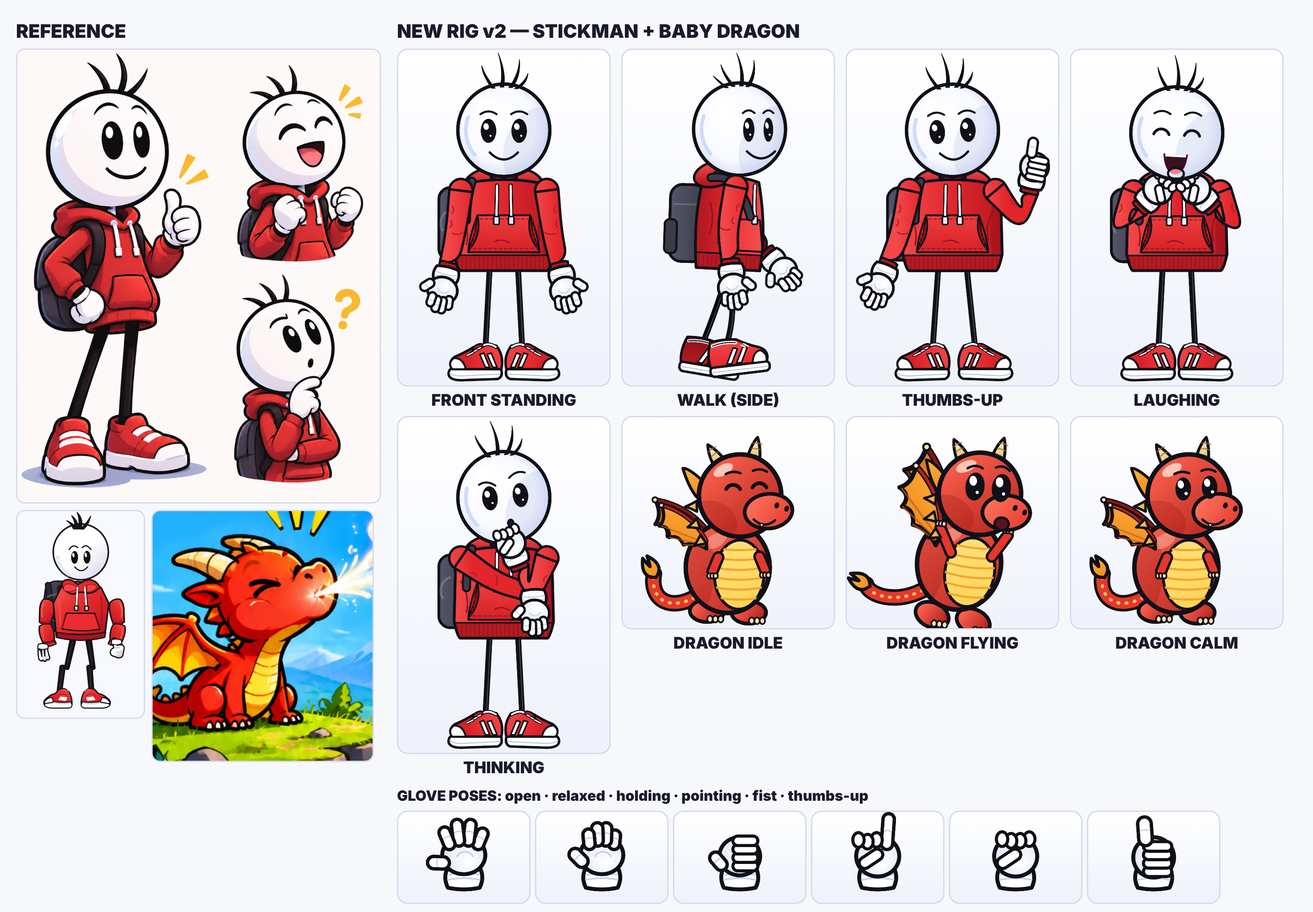
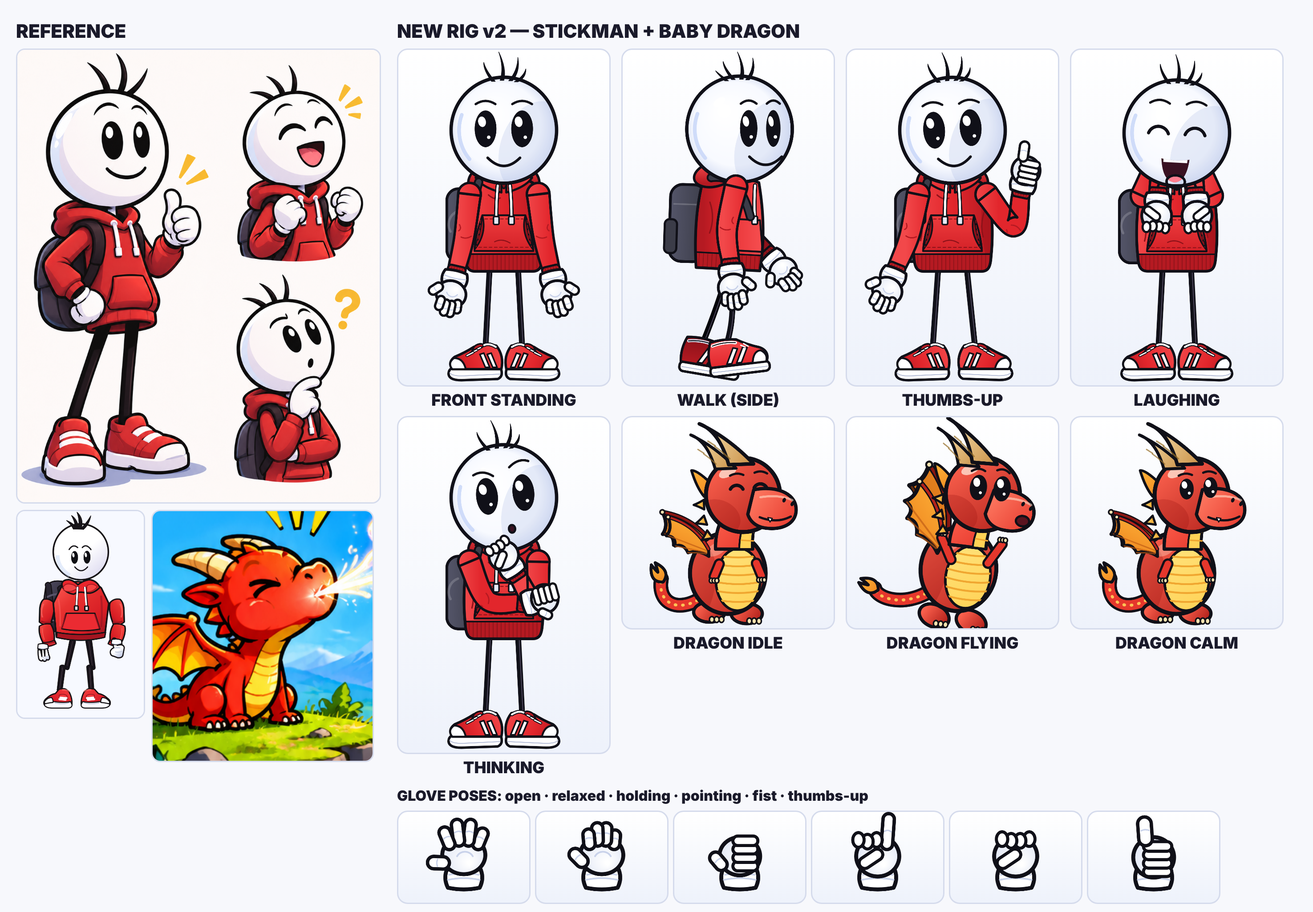
Rig v2 polish: bigger head/eyes, soft hoodie + hood fold, smooth sleeves, thinking pose, dragon muzzle/horns/neck
Claude-Session: https://claude.ai/code/session_01UChzBpiCnNwS6LFmEXGCkY

diff --git a/pack/Stick3D-Pack/engine/src/style/stickman.ts b/pack/Stick3D-Pack/engine/src/style/stickman.ts
@@ -13,7 +13,7 @@ export type Rig = {
   t: number; view?: View; flip?: boolean; face?: Face; lookX?: number; lookY?: number; blink?: number;
   x?: number; y?: number; /* body offset in units (y up = negative) */ air?: number; /* extra height above the ground */
   lean?: number; /* deg, + forward/right */ headTilt?: number; squash?: number; /* + stretch, - squash */ breath?: number;
-  armL?: Arm; armR?: Arm; ikL?: [number, number]; ikR?: [number, number]; ikKL?: number; ikKR?: number; /* hand targets (units, x from body centre, y from baseline up) */
+  armL?: Arm; armR?: Arm; ikL?: [number, number]; ikR?: [number, number]; ikKL?: number; ikKR?: number; ikBendL?: number; ikBendR?: number; /* override elbow side (+1/-1) */ /* hand targets (units, x from body centre, y from baseline up) */
   handL?: HandPose; handR?: HandPose; handRotL?: number; handRotR?: number;
   legL?: Leg; legR?: Leg; grounded?: boolean;
   hug?: (c: CanvasRenderingContext2D, x: number, y: number) => void; // drawn over the torso, under the hands (units)
@@ -146,14 +146,14 @@ function shoeFront(c: CanvasRenderingContext2D) {
 
 
 /* ---------- head + face ---------- */
-const HR = 150;
+const HR = 172; const FK = HR / 150; // face scale
 function hair(c: CanvasRenderingContext2D, hx: number, hy: number, t: number, side: boolean) {
   // 3-4 thin curved strands from the crown
-  const sway = Math.sin(t * 0.18) * 0.04;
+  const sway = Math.sin(t * 0.18) * 0.04; const HL = 0.82;
   const strands: [number, number, number, number][] = side ? [[-20, 78, -0.55, -1], [6, 104, -0.15, 1], [26, 84, 0.25, 1], [-42, 56, -0.9, -1]] : [[-34, 80, -0.5, -1], [-6, 108, -0.12, 1], [22, 92, 0.32, 1], [40, 60, 0.7, 1]];
   for (const [dx, len, ang, bend] of strands) {
     const bx = hx + dx, by = hy - Math.sqrt(Math.max(0, HR * HR - dx * dx)) + 6, a = ang + sway;
-    const tx = bx + Math.sin(a) * len, ty = by - Math.cos(a) * len, mx = (bx + tx) / 2 + bend * 16 * Math.cos(a), my = (by + ty) / 2 + bend * 6;
+    const tx = bx + Math.sin(a) * len * HL, ty = by - Math.cos(a) * len * HL, mx = (bx + tx) / 2 + bend * 16 * Math.cos(a), my = (by + ty) / 2 + bend * 6;
     c.beginPath(); c.moveTo(bx - 6, by + 4); c.quadraticCurveTo(mx - 4, my, tx, ty); c.quadraticCurveTo(mx + 5, my + 3, bx + 6, by + 4); c.closePath(); c.fillStyle = INK; c.fill(); stroke(c, 2);
   }
 }
@@ -169,27 +169,28 @@ function headBall(c: CanvasRenderingContext2D, hx: number, hy: number, faceDir: 
   c.beginPath(); c.arc(hx, hy, HR, 0, Math.PI * 2); stroke(c, 11);
 }
 function face(c: CanvasRenderingContext2D, hx: number, hy: number, r: Rig, side: boolean) {
+  c.save(); c.translate(hx, hy); c.scale(FK, FK); c.translate(-hx, -hy);
   const f = r.face ?? "smile", lx = (r.lookX ?? 0) * 8, ly = (r.lookY ?? 0) * 8, bl = (r.blink ?? 0) > 0.5;
-  const eyes: [number, number, number][] = side ? [[hx + 30, hy + 2, 0.8], [hx + 94, hy + 2, 0.68]] : [[hx - 50, hy + 2, 1.1], [hx + 50, hy + 2, 1.1]];
+  const eyes: [number, number, number][] = side ? [[hx + 26, hy - 2, 0.8], [hx + 96, hy - 2, 0.66]] : [[hx - 52, hy - 4, 1]].concat([[hx + 52, hy - 4, 1]]) as [number, number, number][];
   const big = f === "surprised" || f === "scared" ? 1.18 : 1;
   // eyes
   for (const [ex, ey, sx] of eyes) {
-    if (f === "laugh" || f === "grin") { c.beginPath(); c.arc(ex, ey + 14, 24 * sx, rad(200), rad(340)); stroke(c, 9); continue; }
-    if (bl) { c.beginPath(); c.arc(ex, ey - 6, 22 * sx, rad(20), rad(160)); stroke(c, 8); continue; }
-    c.beginPath(); c.ellipse(ex + lx, ey + ly, 23 * sx * big, 39 * big, 0, 0, Math.PI * 2); c.fillStyle = INK; c.fill();
-    c.beginPath(); c.ellipse(ex + lx - 7 * sx, ey + ly - 14 * big, 8 * sx, 11, -0.2, 0, Math.PI * 2); c.fillStyle = "#fff"; c.fill();
-    c.beginPath(); c.arc(ex + lx + 6 * sx, ey + ly + 16 * big, 3.5, 0, Math.PI * 2); c.fill();
+    if (f === "laugh" || f === "grin") { c.beginPath(); c.arc(ex, ey + 18, 30 * sx, rad(200), rad(340)); stroke(c, 9); continue; }
+    if (bl) { c.beginPath(); c.arc(ex, ey - 6, 28 * sx, rad(20), rad(160)); stroke(c, 8); continue; }
+    c.beginPath(); c.ellipse(ex + lx, ey + ly, 31 * sx * big, 52 * big, 0, 0, Math.PI * 2); c.fillStyle = INK; c.fill();
+    c.beginPath(); c.ellipse(ex + lx - 10 * sx, ey + ly - 20 * big, 11 * sx, 15, -0.2, 0, Math.PI * 2); c.fillStyle = "#fff"; c.fill();
+    c.beginPath(); c.arc(ex + lx + 9 * sx, ey + ly + 24 * big, 5, 0, Math.PI * 2); c.fill();
   }
   // brows (thin arcs)
   const [e0, e1] = eyes;
-  const brow = (ex: number, ey: number, sx: number, lift: number, tilt: number) => { c.beginPath(); c.moveTo(ex - 24 * sx, ey - 52 - lift + tilt); c.quadraticCurveTo(ex, ey - 70 - lift, ex + 24 * sx, ey - 52 - lift - tilt); stroke(c, 6.5); };
+  const brow = (ex: number, ey: number, sx: number, lift: number, tilt: number) => { c.beginPath(); c.moveTo(ex - 28 * sx, ey - 68 - lift + tilt); c.quadraticCurveTo(ex, ey - 86 - lift, ex + 28 * sx, ey - 68 - lift - tilt); stroke(c, 6.5); };
   if (f === "think") { brow(e0[0], e0[1], e0[2], -4, -4); brow(e1[0], e1[1], e1[2], 18, 6); }
   else if (f === "surprised" || f === "scared") { brow(e0[0], e0[1], e0[2], 20, 0); brow(e1[0], e1[1], e1[2], 20, 0); }
   else if (f === "worried") { brow(e0[0], e0[1], e0[2], 6, -10); brow(e1[0], e1[1], e1[2], 6, 10); }
   else if (f === "determined") { brow(e0[0], e0[1], e0[2], -6, 12); brow(e1[0], e1[1], e1[2], -6, -12); }
   else { brow(e0[0], e0[1], e0[2], f === "laugh" ? 10 : 2, 0); brow(e1[0], e1[1], e1[2], f === "laugh" ? 10 : 2, 0); }
   // mouth
-  const mx = side ? hx + 70 : hx, my = hy + 78;
+  const mx = side ? hx + 74 : hx, my = hy + 84;
   c.beginPath();
   if (f === "laugh" || f === "grin") {
     const h = f === "laugh" ? 54 : 40; c.moveTo(mx - 40, my - 10); c.quadraticCurveTo(mx, my - 2, mx + 40, my - 10); c.quadraticCurveTo(mx + 34, my + h, mx, my + h + 2); c.quadraticCurveTo(mx - 34, my + h, mx - 40, my - 10); c.closePath(); c.fillStyle = "#3a1222"; c.fill();
@@ -200,6 +201,7 @@ function face(c: CanvasRenderingContext2D, hx: number, hy: number, r: Rig, side:
   else if (f === "determined") { c.moveTo(mx - 28, my + 8); c.quadraticCurveTo(mx, my + 2, mx + 28, my + 8); stroke(c, 7); }
   else if (f === "neutral") { c.moveTo(mx - 22, my + 6); c.lineTo(mx + 22, my + 6); stroke(c, 7); }
   else { c.moveTo(mx - 46, my - 6); c.quadraticCurveTo(mx, my + 40, mx + 46, my - 6); stroke(c, 7.5); }
+  c.restore();
 }
 
 /* ---------- main ---------- */
@@ -231,12 +233,12 @@ export function drawStickman(c: CanvasRenderingContext2D, W: number, H: number, 
   c.translate(0, gy);
   const shBase: P = side ? [8, -258] : [0, -258];
   const sh = torsoPt([0, -258]);
-  const shL = torsoPt(side ? [shBase[0] - 10, shBase[1] + 6] : [-140, -246 + breath * 0.3]), shR = torsoPt(side ? [shBase[0] + 4, shBase[1] + 4] : [140, -246 + breath * 0.3]);
+  const shL = torsoPt(side ? [shBase[0] - 10, shBase[1] + 6] : [-112, -234 + breath * 0.3]), shR = torsoPt(side ? [shBase[0] + 4, shBase[1] + 4] : [112, -234 + breath * 0.3]);
   const armPts = (arm: Arm | undefined, s: P, sx: number, ikT?: [number, number], ikK = 1): [P, P] => {
     const A = arm ?? { a: 8, b: 6 };
     const fa = rad(A.a) + lean * (side ? 1 : 0), fb = rad(A.a + A.b) + lean * (side ? 1 : 0);
     let e: P = add(s, dirDown(fa, side ? 1 : sx).map((v) => v * UPPER) as P), w: P = add(e, dirDown(fb, side ? 1 : sx).map((v) => v * FORE) as P);
-    if (ikT && ikK > 0) { const tgt: P = [ikT[0], 1000 - ikT[1] - gy]; const [ie, iw] = ik(s, tgt, UPPER, FORE, side ? -1 : sx > 0 ? -1 : 1); e = [e[0] + (ie[0] - e[0]) * ikK, e[1] + (ie[1] - e[1]) * ikK]; w = [w[0] + (iw[0] - w[0]) * ikK, w[1] + (iw[1] - w[1]) * ikK]; }
+    if (ikT && ikK > 0) { const tgt: P = [ikT[0], 1000 - ikT[1] - gy]; const bend = (sx > 0 ? r.ikBendR : r.ikBendL) ?? (side ? -1 : sx > 0 ? -1 : 1); const [ie, iw] = ik(s, tgt, UPPER, FORE, bend); e = [e[0] + (ie[0] - e[0]) * ikK, e[1] + (ie[1] - e[1]) * ikK]; w = [w[0] + (iw[0] - w[0]) * ikK, w[1] + (iw[1] - w[1]) * ikK]; }
     return [e, w];
   };
   const [elL, wrL] = armPts(r.armL, shL, -1, r.ikL, r.ikKL ?? 1), [elR, wrR] = armPts(r.armR, shR, 1, r.ikR, r.ikKR ?? 1);
@@ -250,20 +252,25 @@ function legLine(c: CanvasRenderingContext2D, h: P, k: P, a: P, dark: boolean) {
   c.beginPath(); c.moveTo(h[0], h[1]); c.quadraticCurveTo(k[0], k[1], a[0], a[1]);
   stroke(c, 19, dark ? "#05050a" : INK); c.beginPath(); c.moveTo(h[0] + 3, h[1]); c.quadraticCurveTo(k[0] + 3, k[1], a[0] + 3, a[1]); stroke(c, 3, "rgba(120,110,140,0.55)");
 }
+function smoothArm(s: P, e: P, w: P, n = 12): P[] { // Catmull-Rom through shoulder, elbow, cuff start
+  const pts: P[] = []; const q = [s, s, e, w, w];
+  for (let seg = 1; seg <= 2; seg++) for (let i = 0; i < n; i++) { const u = i / n, p0 = q[seg - 1], p1 = q[seg], p2 = q[seg + 1], p3 = q[seg + 2];
+    const f = (k: 0 | 1) => 0.5 * (2 * p1[k] + (-p0[k] + p2[k]) * u + (2 * p0[k] - 5 * p1[k] + 4 * p2[k] - p3[k]) * u * u + (-p0[k] + 3 * p1[k] - 3 * p2[k] + p3[k]) * u * u * u); pts.push([f(0), f(1)]); }
+  pts.push(w); return pts;
+}
 function sleeve(c: CanvasRenderingContext2D, s: P, e: P, w: P, dark: boolean, foldSide: number) {
   const cuffStart: P = [e[0] + (w[0] - e[0]) * 0.8, e[1] + (w[1] - e[1]) * 0.8];
-  tube(c, [s, e, cuffStart], [76, 64, 58]);
+  const arm = smoothArm(s, e, cuffStart), aw = arm.map((_, i) => 74 - 18 * (i / (arm.length - 1)));
+  tube(c, arm, aw);
   const g = c.createLinearGradient(s[0] - 40, s[1], s[0] + 40, s[1]); g.addColorStop(0, dark ? RED_D : RED_L); g.addColorStop(1, dark ? RED_DD : RED);
   fillStroke(c, g, 8);
-  c.save(); tube(c, [s, e, cuffStart], [70, 58, 52]); c.clip();
+  c.save(); tube(c, arm, aw.map((v) => v - 7)); c.clip();
   // folds near the elbow + shading stripe
   const ex = e[0], ey = e[1], ang = Math.atan2(w[1] - e[1], w[0] - e[0]);
   c.save(); c.translate(ex, ey); c.rotate(ang);
   c.beginPath(); c.moveTo(-6, -22 * foldSide); c.quadraticCurveTo(8, -8 * foldSide, 4, 10 * foldSide); stroke(c, 4, dark ? RED_DD : RED_D);
   c.beginPath(); c.moveTo(-34, 24 * foldSide); c.quadraticCurveTo(-22, 14 * foldSide, -14, 22 * foldSide); stroke(c, 4, dark ? RED_DD : RED_D);
   c.restore();
-  { const sa = Math.atan2(e[1] - s[1], e[0] - s[0]); c.save(); c.translate(s[0] + (e[0] - s[0]) * 0.45, s[1] + (e[1] - s[1]) * 0.45); c.rotate(sa);
-    c.beginPath(); c.moveTo(-10, 22 * foldSide); c.quadraticCurveTo(4, 10 * foldSide, 14, 20 * foldSide); stroke(c, 3.5, dark ? RED_DD : RED_D); c.restore(); }
   c.restore();
   // ribbed cuff
   const ca = Math.atan2(w[1] - cuffStart[1], w[0] - cuffStart[0]);
@@ -275,44 +282,55 @@ function sleeve(c: CanvasRenderingContext2D, s: P, e: P, w: P, dark: boolean, fo
 function hoodieFront(c: CanvasRenderingContext2D, T: (p: P) => P, back: boolean, breath: number) {
   const pts = (arr: P[]) => arr.map(T);
   const b = breath * 0.4;
-  // torso body (shoulders -> long hem covering the hips)
-  const [a1, a2, a3, a4, a5, a6, a7, a8] = pts([[-128, -268 - b], [-158, -200], [-162, -40], [-152, 14], [152, 14], [162, -40], [158, -200], [128, -268 - b]]);
-  const top = T([0, -290 - b]);
-  c.beginPath(); c.moveTo(a1[0], a1[1]); c.quadraticCurveTo(a2[0] - 6, a2[1] - 30, a2[0], a2[1]); c.lineTo(a3[0], a3[1]); c.quadraticCurveTo(a4[0], a4[1] - 6, a4[0] + 10, a4[1]);
-  c.lineTo(a5[0] - 10, a5[1]); c.quadraticCurveTo(a5[0], a5[1] - 6, a6[0], a6[1]); c.lineTo(a7[0], a7[1]); c.quadraticCurveTo(a7[0] + 6, a7[1] - 30, a8[0], a8[1]); c.quadraticCurveTo(top[0], top[1] - 6, a1[0], a1[1]); c.closePath();
+  // soft rounded torso: sloped shoulders, slight belly curve, tapering into the ribbed hem
+  const body = () => { const m = (x: number, y: number) => T([x, y]); const P0 = m(-66, -282 - b);
+    c.beginPath(); c.moveTo(P0[0], P0[1]);
+    const bz = (a: P, bb: P, cc: P) => { const A = m(...a), B = m(...bb), C = m(...cc); c.bezierCurveTo(A[0], A[1], B[0], B[1], C[0], C[1]); };
+    bz([-94, -276], [-114, -262], [-120, -232]); bz([-128, -190], [-134, -110], [-126, -34]); bz([-124, 0], [-118, 16], [-94, 16]);
+    const L1 = m(94, 16); c.lineTo(L1[0], L1[1]); bz([118, 16], [124, 0], [126, -34]); bz([134, -110], [128, -190], [120, -232]); bz([114, -262], [94, -276], [66, -282 - b]);
+    const top = m(0, -298 - b), e0 = m(-66, -282 - b); c.quadraticCurveTo(top[0], top[1], e0[0], e0[1]); c.closePath(); };
+  const a3 = T([-130, -100]), a6 = T([130, -100]), a7 = T([120, -232]);
+  body();
   const g = c.createLinearGradient(a3[0], 0, a6[0], 0); g.addColorStop(0, RED_L); g.addColorStop(0.5, RED); g.addColorStop(1, RED_D); c.fillStyle = g; c.fill();
   c.save(); c.clip();
-  c.fillStyle = "rgba(120,0,10,0.22)"; c.beginPath(); c.ellipse(a6[0] + 10, (a6[1] + a7[1]) / 2, 48, 190, 0, 0, Math.PI * 2); c.fill(); // side shadow
-  const h0 = T([-170, -36]), h1 = T([170, -36]); c.fillStyle = RED_D; c.beginPath(); c.moveTo(h0[0], h0[1]); c.lineTo(h1[0], h1[1]); c.lineTo(h1[0], h1[1] + 70); c.lineTo(h0[0], h0[1] + 70); c.fill(); // ribbed hem
-  for (let i = -150; i <= 150; i += 14) { const p0 = T([i, -32]), p1 = T([i, 10]); c.beginPath(); c.moveTo(p0[0], p0[1]); c.lineTo(p1[0], p1[1]); stroke(c, 2.5, "rgba(0,0,0,0.22)"); }
+  c.fillStyle = "rgba(120,0,10,0.22)"; c.beginPath(); c.ellipse(a6[0] + 4, (a6[1] + a7[1]) / 2, 40, 170, 0, 0, Math.PI * 2); c.fill(); // side shadow
+  const h0 = T([-150, -40]), h1 = T([150, -40]); c.fillStyle = RED_D; c.beginPath(); c.moveTo(h0[0], h0[1]); c.lineTo(h1[0], h1[1]); c.lineTo(h1[0], h1[1] + 70); c.lineTo(h0[0], h0[1] + 70); c.fill(); // ribbed hem
+  for (let i = -126; i <= 126; i += 13) { const p0 = T([i, -36]), p1 = T([i, 12]); c.beginPath(); c.moveTo(p0[0], p0[1]); c.lineTo(p1[0], p1[1]); stroke(c, 2.5, "rgba(0,0,0,0.22)"); }
   c.beginPath(); c.moveTo(h0[0], h0[1]); c.lineTo(h1[0], h1[1]); stroke(c, 5);
   // folds
-  for (const [p0, p1, p2] of [[[-140, -170], [-110, -120], [-122, -70]], [[132, -180], [104, -130], [118, -84]], [[-60, -64], [-40, -50], [-20, -60]]] as [P, P, P][]) { const q0 = T(p0), q1 = T(p1), q2 = T(p2); c.beginPath(); c.moveTo(q0[0], q0[1]); c.quadraticCurveTo(q1[0], q1[1], q2[0], q2[1]); stroke(c, 4.5, RED_DD); }
+  for (const [p0, p1, p2] of [[[-112, -180], [-92, -130], [-104, -84]], [[108, -190], [88, -140], [100, -96]], [[-50, -232], [-30, -214], [-12, -222]]] as [P, P, P][]) { const q0 = T(p0), q1 = T(p1), q2 = T(p2); c.beginPath(); c.moveTo(q0[0], q0[1]); c.quadraticCurveTo(q1[0], q1[1], q2[0], q2[1]); stroke(c, 4.5, RED_DD); }
   if (!back) {
     // kangaroo pocket: patch with stitched top + bottom seams, curved side openings with a dark inner edge
-    const p = pts([[-86, -166], [86, -166], [116, -46], [-116, -46]]);
+    const p = pts([[-70, -166], [70, -166], [96, -50], [-96, -50]]);
     const pocket = () => { c.beginPath(); c.moveTo(p[0][0], p[0][1]); c.lineTo(p[1][0], p[1][1]); c.quadraticCurveTo(p[2][0] - 2, p[2][1] - 46, p[2][0], p[2][1]); c.lineTo(p[3][0], p[3][1]); c.quadraticCurveTo(p[3][0] + 2, p[3][1] - 46, p[0][0], p[0][1]); c.closePath(); };
     pocket(); const pg = c.createLinearGradient(0, p[0][1], 0, p[2][1]); pg.addColorStop(0, "#ee3c3e"); pg.addColorStop(1, "#d42228"); c.fillStyle = pg; c.fill(); stroke(c, 6);
     for (const sx of [-1, 1]) { // side openings (hand slots)
-      const q0 = T([sx * 86, -166]), q1 = T([sx * 92, -104]), q2 = T([sx * 116, -50]);
+      const q0 = T([sx * 70, -166]), q1 = T([sx * 76, -106]), q2 = T([sx * 96, -54]);
       c.beginPath(); c.moveTo(q0[0], q0[1]); c.quadraticCurveTo(q1[0] - sx * 22, q1[1], q2[0], q2[1]); c.quadraticCurveTo(q1[0] + sx * 2, q1[1] + 6, q0[0], q0[1]); c.fillStyle = RED_DD; c.fill(); stroke(c, 5);
     }
     c.setLineDash([9, 8]);
-    const s0 = T([-78, -154]), s1 = T([78, -154]); c.beginPath(); c.moveTo(s0[0], s0[1]); c.lineTo(s1[0], s1[1]); stroke(c, 3, RED_DD);
-    const b0 = T([-100, -58]), b1 = T([100, -58]); c.beginPath(); c.moveTo(b0[0], b0[1]); c.lineTo(b1[0], b1[1]); stroke(c, 3, RED_DD);
-    for (const sx of [-1, 1]) { const q0 = T([sx * 92, -150]), q1 = T([sx * 108, -60]); c.beginPath(); c.moveTo(q0[0], q0[1]); c.quadraticCurveTo(q0[0] + sx * 2, (q0[1] + q1[1]) / 2, q1[0], q1[1]); stroke(c, 3, RED_DD); }
+    const s0 = T([-62, -154]), s1 = T([62, -154]); c.beginPath(); c.moveTo(s0[0], s0[1]); c.lineTo(s1[0], s1[1]); stroke(c, 3, RED_DD);
+    const b0 = T([-82, -62]), b1 = T([82, -62]); c.beginPath(); c.moveTo(b0[0], b0[1]); c.lineTo(b1[0], b1[1]); stroke(c, 3, RED_DD);
+    for (const sx of [-1, 1]) { const q0 = T([sx * 76, -150]), q1 = T([sx * 90, -64]); c.beginPath(); c.moveTo(q0[0], q0[1]); c.quadraticCurveTo(q0[0] + sx * 2, (q0[1] + q1[1]) / 2, q1[0], q1[1]); stroke(c, 3, RED_DD); }
     c.setLineDash([]);
     const fo = T([0, -110]); c.beginPath(); c.moveTo(fo[0] - 30, fo[1] + 30); c.quadraticCurveTo(fo[0] - 6, fo[1] + 18, fo[0] + 20, fo[1] + 34); stroke(c, 3.5, RED_DD); // pocket fold
   }
   c.restore();
-  c.beginPath(); c.moveTo(a1[0], a1[1]); c.quadraticCurveTo(a2[0] - 6, a2[1] - 30, a2[0], a2[1]); c.lineTo(a3[0], a3[1]); c.quadraticCurveTo(a4[0], a4[1] - 6, a4[0] + 10, a4[1]); c.lineTo(a5[0] - 10, a5[1]); c.quadraticCurveTo(a5[0], a5[1] - 6, a6[0], a6[1]); c.lineTo(a7[0], a7[1]); c.quadraticCurveTo(a7[0] + 6, a7[1] - 30, a8[0], a8[1]); c.quadraticCurveTo(top[0], top[1] - 6, a1[0], a1[1]); c.closePath(); stroke(c, LW);
+  body(); stroke(c, LW);
 }
 function hoodFront(c: CanvasRenderingContext2D, T: (p: P) => P, back: boolean) {
   const n = T([0, -286]);
-  if (back) { c.beginPath(); c.ellipse(n[0], n[1] + 40, 112, 92, 0, 0, Math.PI * 2); fillStroke(c, RED, 8); c.beginPath(); c.ellipse(n[0], n[1] + 30, 70, 50, 0, 0, Math.PI * 2); fillStroke(c, RED_DD, 5); return; }
-  // hood lying around the neck: two rolled lobes + dark opening
-  for (const sx of [-1, 1]) { c.beginPath(); c.ellipse(n[0] + sx * 62, n[1] + 4, 66, 34, sx * 0.28, 0, Math.PI * 2); const g = c.createLinearGradient(n[0], n[1] - 30, n[0], n[1] + 30); g.addColorStop(0, RED_L); g.addColorStop(1, RED_D); fillStroke(c, g, 8); }
-  c.beginPath(); c.moveTo(n[0] - 44, n[1] - 4); c.quadraticCurveTo(n[0], n[1] + 54, n[0] + 44, n[1] - 4); c.quadraticCurveTo(n[0], n[1] + 14, n[0] - 44, n[1] - 4); c.closePath(); fillStroke(c, RED_DD, 6);
+  if (back) { c.beginPath(); c.ellipse(n[0], n[1] + 40, 104, 88, 0, 0, Math.PI * 2); fillStroke(c, RED, 8); c.beginPath(); c.ellipse(n[0], n[1] + 30, 64, 46, 0, 0, Math.PI * 2); fillStroke(c, RED_DD, 5); return; }
+  // soft hood fold lying behind the neck, visible over both shoulders
+  c.beginPath(); c.moveTo(n[0] - 116, n[1] + 22); c.bezierCurveTo(n[0] - 120, n[1] - 30, n[0] - 60, n[1] - 52, n[0], n[1] - 50); c.bezierCurveTo(n[0] + 60, n[1] - 52, n[0] + 120, n[1] - 30, n[0] + 116, n[1] + 22); c.closePath();
+  const g = c.createLinearGradient(n[0], n[1] - 50, n[0], n[1] + 20); g.addColorStop(0, RED_L); g.addColorStop(1, RED_D); fillStroke(c, g, 8);
+  c.beginPath(); c.moveTo(n[0] - 86, n[1] - 4); c.quadraticCurveTo(n[0], n[1] - 40, n[0] + 86, n[1] - 4); stroke(c, 4, RED_DD);
+}
+function hoodCollar(c: CanvasRenderingContext2D, T: (p: P) => P) {
+  const n = T([0, -280]);
+  for (const sx of [-1, 1]) { c.beginPath(); c.moveTo(n[0] + sx * 8, n[1] + 40); c.quadraticCurveTo(n[0] + sx * 70, n[1] + 24, n[0] + sx * 92, n[1] - 8); c.quadraticCurveTo(n[0] + sx * 50, n[1] - 18, n[0] + sx * 8, n[1] + 6); c.closePath();
+    const g = c.createLinearGradient(n[0], n[1] - 20, n[0], n[1] + 40); g.addColorStop(0, RED_L); g.addColorStop(1, RED); fillStroke(c, g, 7); }
+  c.beginPath(); c.moveTo(n[0] - 10, n[1] + 8); c.quadraticCurveTo(n[0], n[1] + 46, n[0] + 10, n[1] + 8); c.closePath(); fillStroke(c, RED_DD, 5);
 }
 function strings(c: CanvasRenderingContext2D, T: (p: P) => P, t: number, xs: number[]) {
   for (const sx of xs) { const sw = Math.sin(t * 0.17 + sx) * 3; const a = T([sx, -262]), b = T([sx * 1.1 + sw, -158]);
@@ -320,12 +338,12 @@ function strings(c: CanvasRenderingContext2D, T: (p: P) => P, t: number, xs: num
     c.beginPath(); c.roundRect(b[0] - 9, b[1] - 4, 18, 26, 4); fillStroke(c, "#e6eaf6", 5); }
 }
 function backpackFront(c: CanvasRenderingContext2D, T: (p: P) => P) {
-  const p = T([-150, -250]);
+  const p = T([-124, -246]);
   c.beginPath(); c.roundRect(p[0] - 62, p[1] - 6, 110, 236, 38); const g = c.createLinearGradient(p[0] - 62, 0, p[0] + 48, 0); g.addColorStop(0, BAG_L); g.addColorStop(1, BAG); fillStroke(c, g, LW);
   c.beginPath(); c.arc(p[0] - 10, p[1] + 110, 46, rad(150), rad(250)); stroke(c, 8, "rgba(255,255,255,0.18)");
 }
 function strapFront(c: CanvasRenderingContext2D, T: (p: P) => P) {
-  const a = T([-104, -276]), b = T([-122, -150]);
+  const a = T([-82, -274]), b = T([-100, -150]);
   c.beginPath(); c.moveTo(a[0], a[1]); c.quadraticCurveTo(a[0] - 18, (a[1] + b[1]) / 2, b[0], b[1]); stroke(c, 30); c.beginPath(); c.moveTo(a[0], a[1]); c.quadraticCurveTo(a[0] - 18, (a[1] + b[1]) / 2, b[0], b[1]); stroke(c, 18, BAG);
 }
 
@@ -338,8 +356,9 @@ function drawFront(c: CanvasRenderingContext2D, r: Rig, g: Geo, breath: number, 
   }
   hoodFront(c, T, back);
   hoodieFront(c, T, back, breath);
+  if (!back) hoodCollar(c, T);
   if (back && showBag) { const p = T([0, -232]); c.beginPath(); c.roundRect(p[0] - 104, p[1], 208, 230, 50); const gg = c.createLinearGradient(p[0] - 104, 0, p[0] + 104, 0); gg.addColorStop(0, BAG_L); gg.addColorStop(1, BAG); fillStroke(c, gg, LW); c.beginPath(); c.roundRect(p[0] - 70, p[1] + 110, 140, 90, 24); stroke(c, 6); }
-  if (!back) { strings(c, T, r.t, [-22, 22]); if (showBag) strapFront(c, T); }
+  if (!back) { strings(c, T, r.t, [-20, 20]); if (showBag) strapFront(c, T); }
   if (r.hug) r.hug(c, T([0, -180])[0], T([0, -180])[1]);
   const arms = () => {
     sleeve(c, g.shL, g.elL, g.wrL, false, 1); sleeve(c, g.shR, g.elR, g.wrR, false, -1);

diff --git a/pack/Stick3D-Pack/engine/src/style/dragon.ts b/pack/Stick3D-Pack/engine/src/style/dragon.ts
@@ -13,7 +13,7 @@ const LW = 11;
 
 export function drawDragon(c: CanvasRenderingContext2D, W: number, H: number, d: DragonPose) {
   c.clearRect(0, 0, W, H); c.save();
-  const S = W / 512; c.scale(S, S);
+  const S = W / 512; c.scale(S, S); c.translate(256, 500); c.scale(0.9, 0.9); c.translate(-256, -500);
   const sq = d.squash ?? 0, fly = d.fly ?? 0;
   if (d.flip) { c.translate(512, 0); c.scale(-1, 1); }
   c.translate(256, 496); c.rotate((d.tilt ?? 0) + fly * 0.12); c.scale(1 - sq * 0.5, 1 + sq); c.translate(-256, -496);
@@ -80,13 +80,13 @@ export function drawDragon(c: CanvasRenderingContext2D, W: number, H: number, d:
 
   // ---- head ----
   const rec = d.headRecoil ?? 0;
-  c.save(); c.translate(285, 260); c.rotate(-rec * 0.25); c.translate(-285 + rec * 10, -260 - Math.abs(rec) * 4);
+  // short neck with belly plates
+  c.beginPath(); c.moveTo(222, 300); c.quadraticCurveTo(220, 230, 262, 190); c.lineTo(338, 196); c.quadraticCurveTo(318, 250, 322, 300); c.closePath(); c.fillStyle = lin(220, 190, 330, 300, RED_L, RED); c.fill(); ink(9);
+  c.beginPath(); c.moveTo(286, 300); c.quadraticCurveTo(286, 246, 312, 206); c.lineTo(334, 210); c.quadraticCurveTo(318, 256, 320, 300); c.closePath(); c.fillStyle = BELLY; c.fill(); ink(5);
+  c.strokeStyle = BELLY_D; c.lineWidth = 4; for (const y of [228, 252, 276]) { c.beginPath(); c.moveTo(296 - (y - 228) * 0.1, y); c.lineTo(326 - (y - 228) * 0.05, y + 2); c.stroke(); }
+  c.save(); c.translate(296, 236); c.rotate(-rec * 0.25); c.translate(-285 + rec * 10, -260 - Math.abs(rec) * 4); c.translate(0, -12);
   // back spikes
   for (const [x, y, a] of [[192, 172, -1.3], [180, 216, -1.6], [184, 258, -1.9], [196, 296, -2.2]] as [number, number, number][]) { c.save(); c.translate(x, y); c.rotate(a); c.beginPath(); c.moveTo(-13, 0); c.quadraticCurveTo(-4, -16, 0, -28); c.quadraticCurveTo(4, -16, 13, 0); c.closePath(); c.fillStyle = lin(0, -28, 0, 0, "#ffe27a", BELLY_D); c.fill(); ink(6); c.restore(); }
-  // horns with ridges
-  for (const [x, y, a] of [[236, 112, -0.5], [318, 102, 0.25]] as [number, number, number][]) { c.save(); c.translate(x, y); c.rotate(a);
-    c.beginPath(); c.moveTo(-16, 8); c.quadraticCurveTo(-16, -32, -4, -54); c.quadraticCurveTo(12, -28, 16, 8); c.closePath(); c.fillStyle = lin(-16, -54, 16, 8, "#fff4d0", HORN_D); c.fill(); ink(7);
-    c.strokeStyle = "rgba(150,110,40,.7)"; c.lineWidth = 3.5; for (const yy of [-8, -24, -38]) { c.beginPath(); c.moveTo(-12 + (yy + 54) * 0.05, yy); c.quadraticCurveTo(0, yy - 4, 11 - (yy + 54) * 0.05, yy - 2); c.stroke(); } c.restore(); }
   // ear fins
   c.beginPath(); c.moveTo(198, 158); c.quadraticCurveTo(160, 122, 146, 124); c.quadraticCurveTo(160, 170, 180, 194); c.closePath(); c.fillStyle = lin(146, 124, 198, 190, WING, WING_D); c.fill(); ink(7);
   // head ball
@@ -95,9 +95,16 @@ export function drawDragon(c: CanvasRenderingContext2D, W: number, H: number, d:
   c.save(); hb(); c.clip(); c.fillStyle = "rgba(140,10,10,0.22)"; c.beginPath(); c.ellipse(220, 250, 60, 46, 0.4, 0, Math.PI * 2); c.fill(); c.restore();
   hb(); ink();
   c.beginPath(); c.ellipse(244, 128, 26, 13, -0.5, 0, Math.PI * 2); c.fillStyle = "rgba(255,235,220,0.75)"; c.fill(); // gloss highlight
-  // snout
-  c.beginPath(); c.ellipse(354, 228, 58, 42, -0.1, 0, Math.PI * 2); c.fillStyle = lin(300, 190, 410, 270, "#ff7a62", RED); c.fill(); ink(9);
-  c.fillStyle = INK; for (const [x, y] of [[374, 214], [398, 222]] as [number, number][]) { c.beginPath(); c.ellipse(x, y, 5.5, 7.5, 0.3, 0, Math.PI * 2); c.fill(); }
+  // big horns sweeping backwards
+  for (const [x, y, sc] of [[238, 108, 1.0], [280, 94, 1.2]] as [number, number, number][]) { c.save(); c.translate(x, y); c.scale(sc, sc);
+    c.beginPath(); c.moveTo(-28, 12); c.bezierCurveTo(-42, -40, -66, -70, -94, -80); c.bezierCurveTo(-56, -62, -14, -34, 28, 10); c.closePath();
+    c.fillStyle = lin(-104, -70, 30, 12, "#fbe8b8", "#c98f45"); c.fill(); ink(8);
+    c.strokeStyle = "rgba(150,110,40,.7)"; c.lineWidth = 3.5; for (const k of [0.25, 0.5, 0.72]) { const hx = -18 + (-96 + 18) * k * 0.9, hy = 8 - 62 * k; c.beginPath(); c.moveTo(hx - 6, hy - 10 + k * 8); c.lineTo(hx + 10, hy + 6); c.stroke(); } c.restore(); }
+  // long rounded muzzle with two small nostrils
+  c.beginPath(); c.moveTo(314, 176); c.bezierCurveTo(372, 164, 424, 184, 428, 224); c.bezierCurveTo(432, 264, 396, 284, 352, 280); c.bezierCurveTo(322, 278, 304, 262, 298, 242); c.closePath();
+  c.fillStyle = lin(310, 180, 440, 270, "#ff7a62", RED); c.fill(); ink(9);
+  c.beginPath(); c.moveTo(332, 196); c.quadraticCurveTo(384, 188, 418, 204); c.lineWidth = 6; c.strokeStyle = "rgba(255,220,200,0.6)"; c.stroke(); // muzzle highlight
+  c.fillStyle = INK; for (const [x, y] of [[396, 204], [418, 214]] as [number, number][]) { c.beginPath(); c.ellipse(x, y, 4.5, 6.5, 0.4, 0, Math.PI * 2); c.fill(); }
   // eyes (big, glossy)
   const lx = (d.lookX ?? 0) * 6;
   const eye = (x: number, y: number) => {
@@ -117,9 +124,9 @@ export function drawDragon(c: CanvasRenderingContext2D, W: number, H: number, d:
   ink(6);
   // mouth
   c.beginPath();
-  if (m === "scared") { c.ellipse(340, 258, 12, 10 + Math.sin(t * 1.3) * 2, 0, 0, Math.PI * 2); c.fillStyle = "#5a1420"; c.fill(); ink(6); }
-  else if (m === "sneeze" || m === "wow") { c.ellipse(346, 256, 17, 15, 0, 0, Math.PI * 2); c.fillStyle = "#5a1420"; c.fill(); ink(6); }
-  else { c.moveTo(318, 248); c.quadraticCurveTo(343, 272, 370, 250); ink(6); c.fillStyle = "#fff"; c.beginPath(); c.moveTo(331, 257); c.lineTo(337, 268); c.lineTo(343, 259); c.closePath(); c.fill(); ink(3); }
+  if (m === "scared") { c.ellipse(392, 252, 13, 9 + Math.sin(t * 1.3) * 2, 0, 0, Math.PI * 2); c.fillStyle = "#5a1420"; c.fill(); ink(6); }
+  else if (m === "sneeze" || m === "wow") { c.ellipse(400, 250, 18, 14, 0, 0, Math.PI * 2); c.fillStyle = "#5a1420"; c.fill(); ink(6); }
+  else { c.moveTo(330, 250); c.quadraticCurveTo(376, 268, 414, 248); ink(6); c.fillStyle = "#fff"; c.beginPath(); c.moveTo(352, 251); c.lineTo(358, 263); c.lineTo(364, 253); c.closePath(); c.fill(); ink(3); }
   c.restore();
   c.restore();
 }

diff --git a/pack/Stick3D-Pack/engine/src/videos/RigSheet.tsx b/pack/Stick3D-Pack/engine/src/videos/RigSheet.tsx
@@ -21,8 +21,8 @@ export const RigSheet: React.FC = () => {
   const stand: Rig = { t, view: "front", face: "smile", ...POSES.stand(t) } as Rig;
   const walk: Rig = { t, face: "smile", ...POSES.walk(0.12) } as Rig;
   const thumb: Rig = { t, view: "front", face: "smile", armL: { a: 12, b: 10 }, armR: { a: 40, b: 128 }, handR: "thumb", handL: "relaxed", legL: { a: 4, b: 0 }, legR: { a: 6, b: 0 }, headTilt: -4 };
-  const laugh: Rig = { t, view: "front", face: "laugh", ikL: [-104, 575], ikR: [104, 575], handL: "fist", handR: "fist", legL: { a: 3, b: 0 }, legR: { a: 3, b: 0 }, squash: -0.02, headTilt: 3 };
-  const think: Rig = { t, view: "front", face: "think", lookX: 0.6, lookY: -0.6, handsOverHead: true, ikR: [44, 606], handR: "fist", ikL: [96, 500], handL: "relaxed", handRotL: 70, legL: { a: 3, b: 0 }, legR: { a: 3, b: 0 }, headTilt: -6 };
+  const laugh: Rig = { t, view: "front", face: "laugh", ikL: [-62, 596], ikR: [62, 596], ikBendL: -1, ikBendR: 1, handL: "fist", handR: "fist", legL: { a: 3, b: 0 }, legR: { a: 3, b: 0 }, squash: -0.02, headTilt: 3 };
+  const think: Rig = { t, view: "front", face: "think", lookX: 0.6, lookY: -0.6, handsOverHead: true, ikR: [34, 572], handR: "fist", ikL: [74, 468], handL: "hold", handRotL: -20, legL: { a: 3, b: 0 }, legR: { a: 3, b: 0 }, headTilt: -6 };
   const hands: Rig[] = (["open", "relaxed", "hold", "point", "fist", "thumb"] as const).map((hp) => ({ t, view: "front", face: "smile", armL: { a: 8, b: 6 }, armR: { a: 70, b: 70 }, handR: hp, handL: "relaxed", legL: { a: 3, b: 0 }, legR: { a: 3, b: 0 } }));
   return (<AbsoluteFill style={{ background: "#f7f8fc", padding: 36, flexDirection: "row", gap: 36 }}>
     <div style={{ width: 820, display: "flex", flexDirection: "column", gap: 14 }}>
